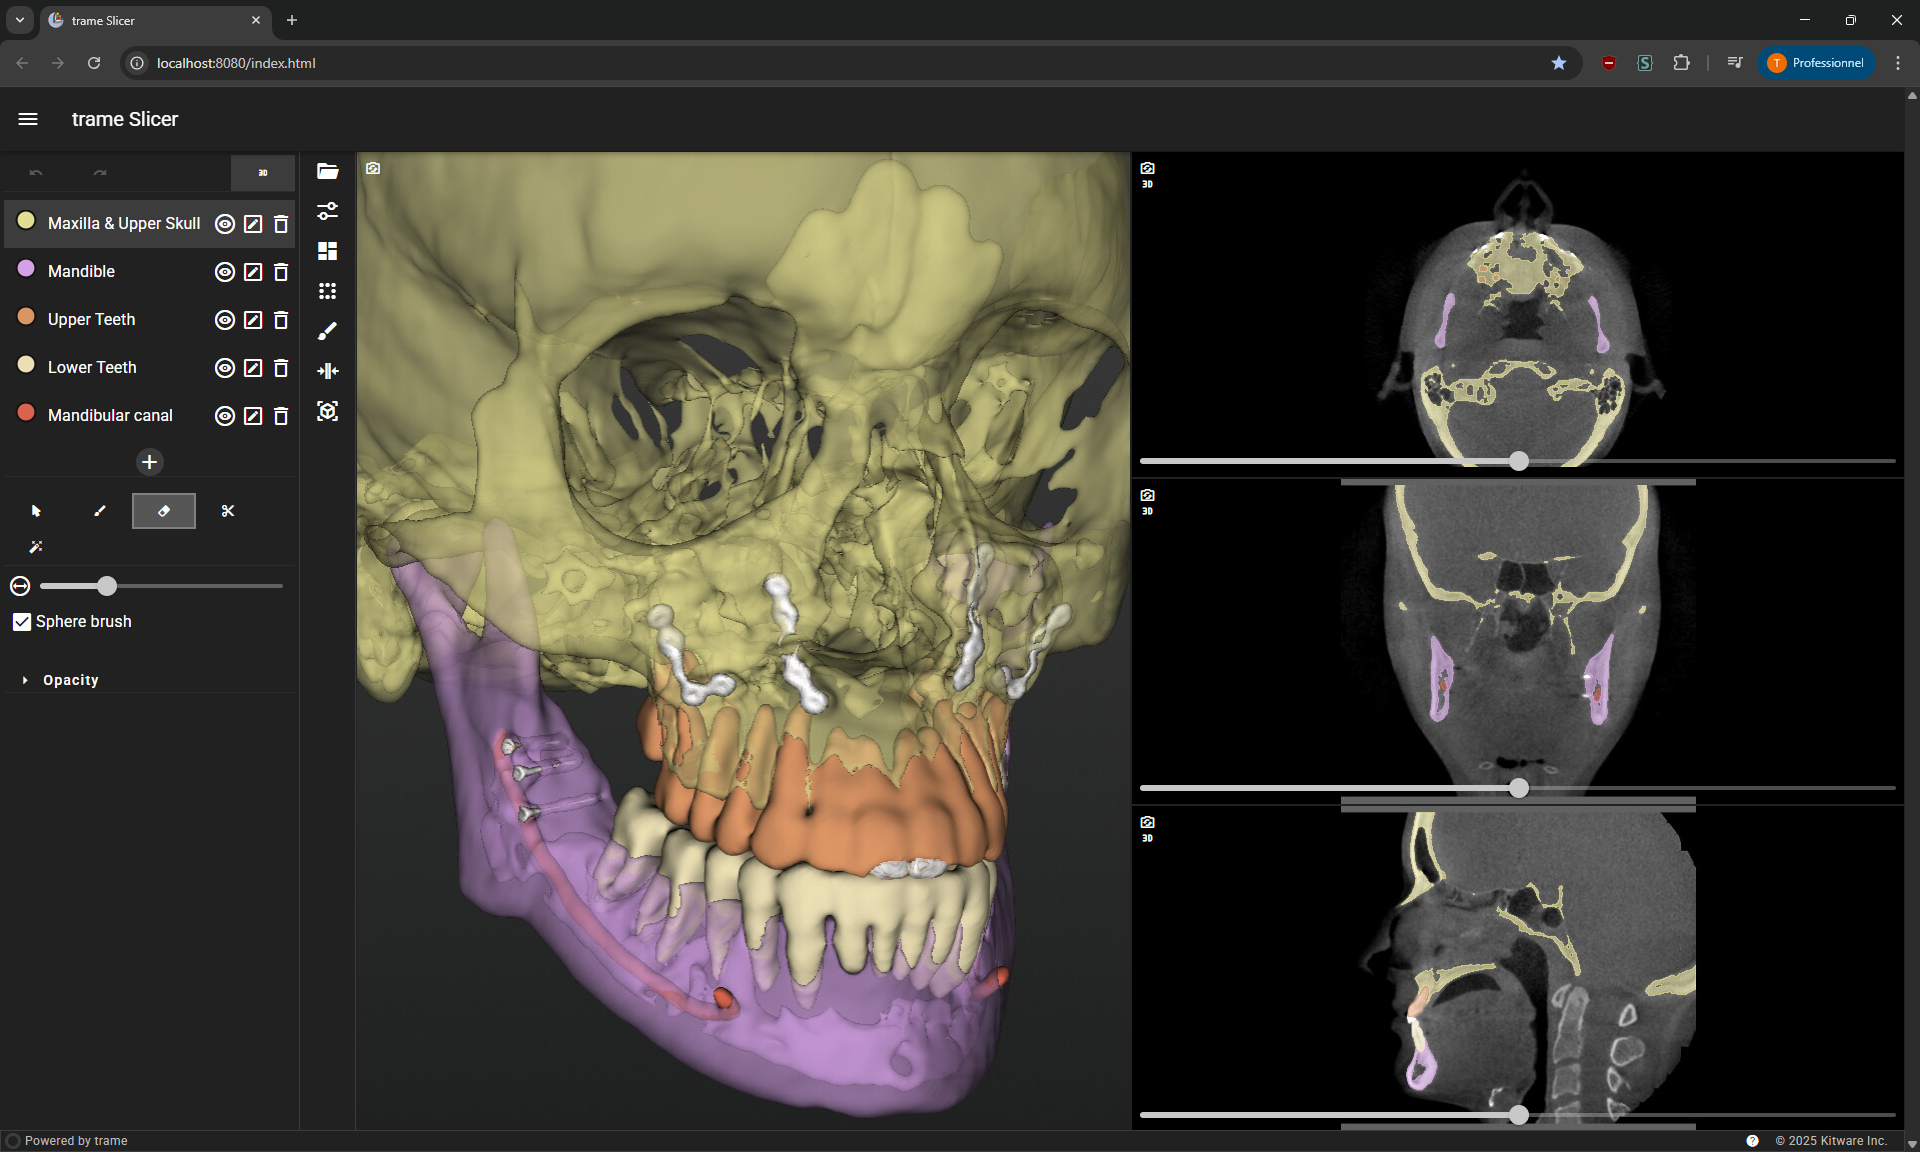
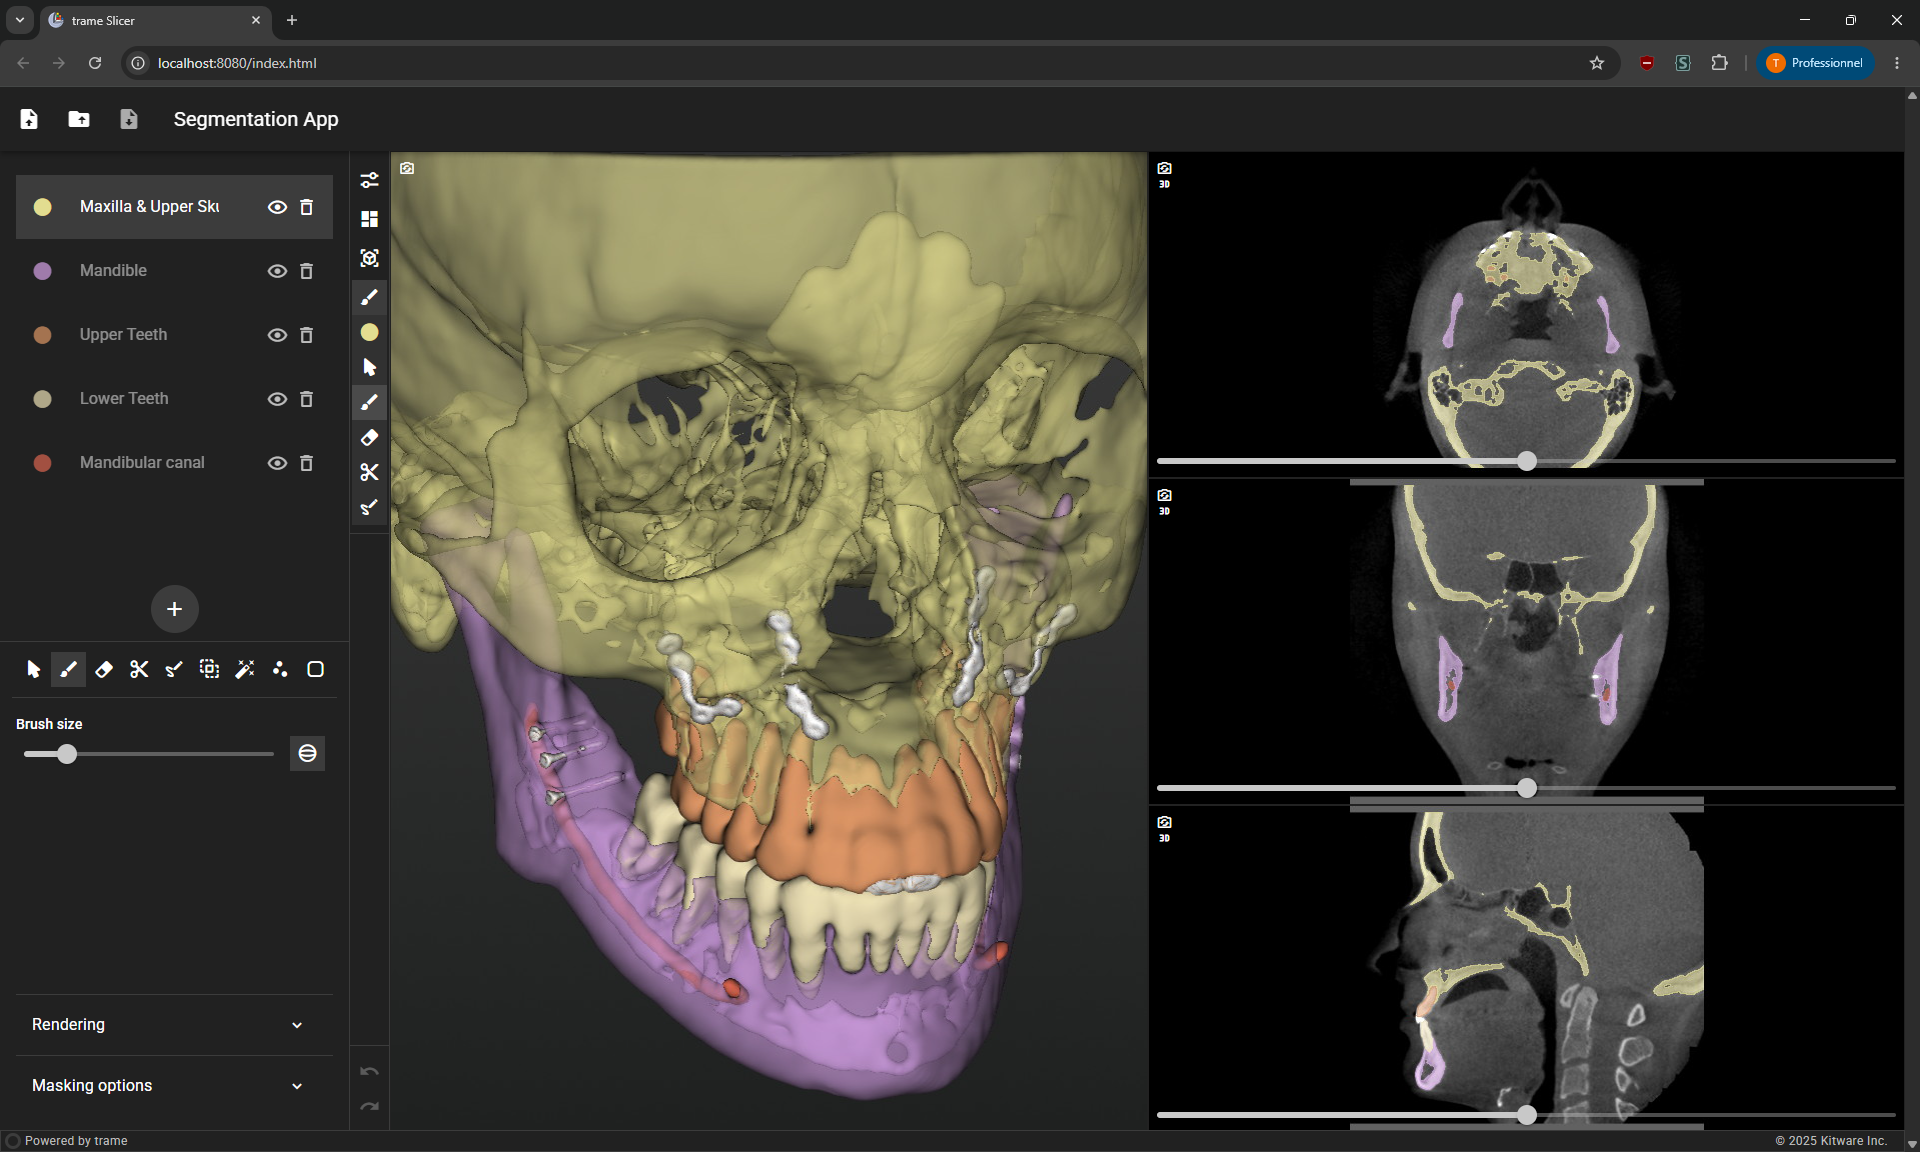
docs: update documentation

diff --git a/docs/developer_guide/segmentation/effects.md b/docs/developer_guide/segmentation/effects.md
@@ -49,6 +49,8 @@ trame-slicer provides several built-in segmentation effects:
   largest, Remove small, Split to segments, etc.).
 - **Logical Operators**: Perform boolean operations between segments (Add,
   Subtract, Intersect, etc.).
+- **Volume Intensity Range Mask**: Mask segmentation based on an intensity
+  range.
 
 ## Draw and Scissors Effects
 
@@ -72,6 +74,19 @@ The Draw and Scissors effects support different interaction modes via the
 - **POINT_BY_POINT**: The segmentation is created by clicking individual points.
   A preview line connects the last point to the current mouse position. The
   contour is closed by right-clicking.
+
+## Threshold Effect
+
+The Threshold effect allows for real-time segmentation based on intensity values
+of the reference volume.
+
+- **Manual Threshold**: Users can define the lower and upper intensity bounds
+  manually to segment specific structures.
+- **Automatic Threshold**: Supports automatic computation of thresholds using
+  various algorithms such as Otsu, Huang, Triangle, and others, making it easier
+  to segment structures without manual tuning.
+- **Use as Mask**: The selected threshold can be used as mask which will enable
+  the Volume Intensity Range Mask Effect.
 
 ## Smoothing Effect
 
@@ -111,3 +126,13 @@ be activated.
   become filled).
 - **Clear / Fill**: Completely empties or fills the active segment within the
   reference volume extent.
+
+## Volume Intensity Range Mask Effect
+
+The Volume Intensity Range Mask effect allows masking the segmentation based on
+the intensity range of the reference volume.
+
+This effect is passive and doesn't need to be activated to be enabled.
+
+- **Threshold range**: Defines the intensity range within which the segmentation
+  is preserved. Values outside this range are masked out (set to empty).